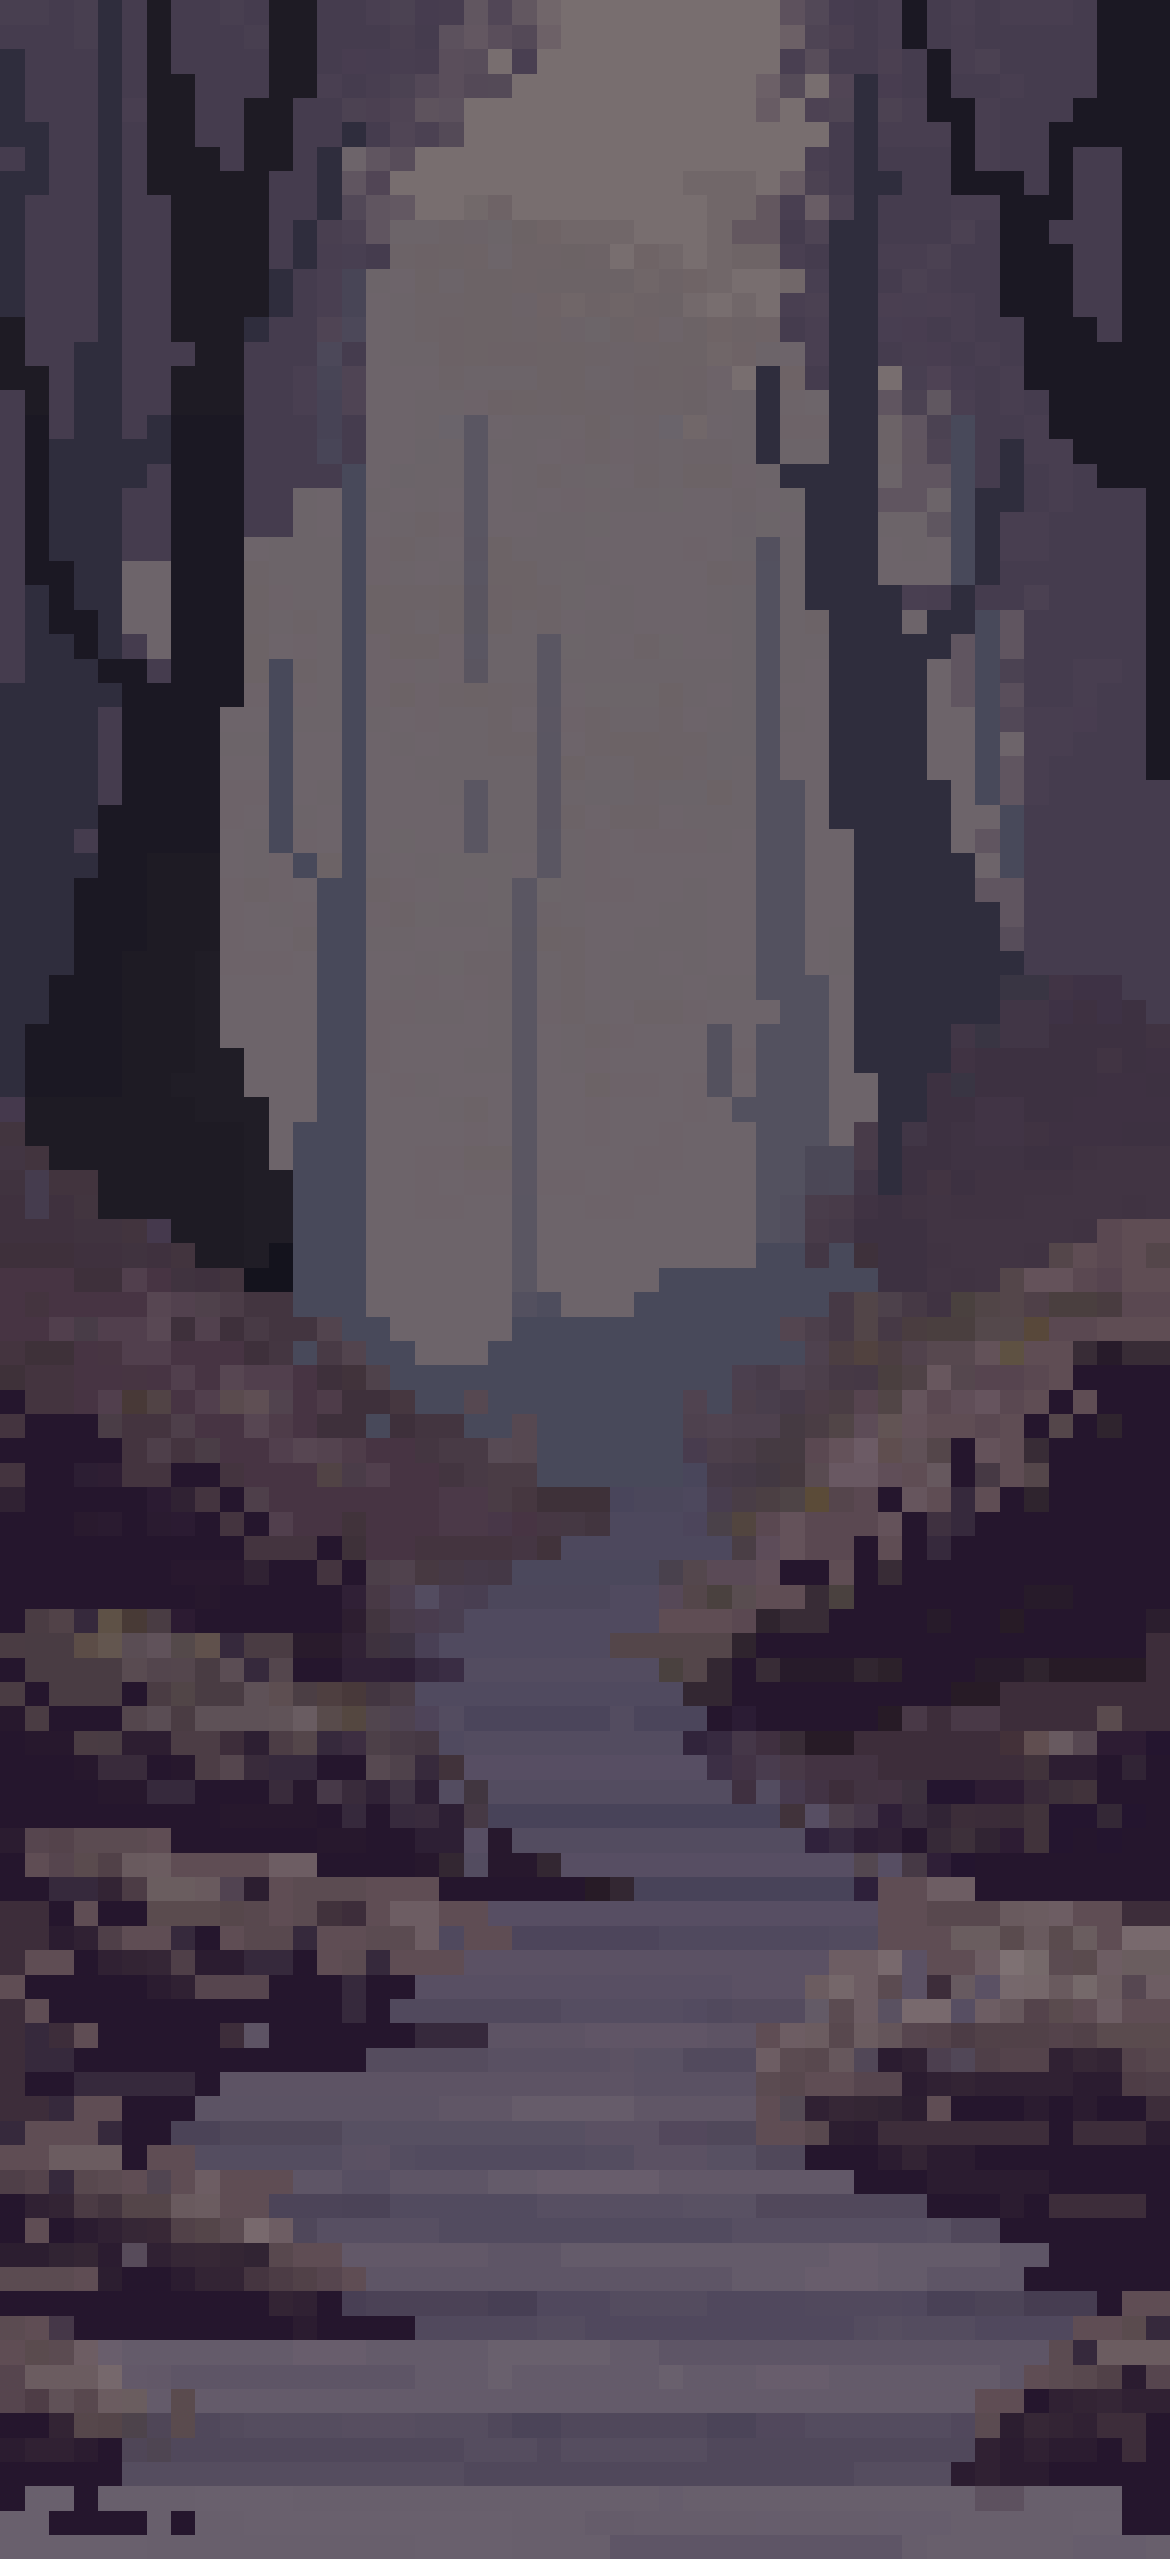
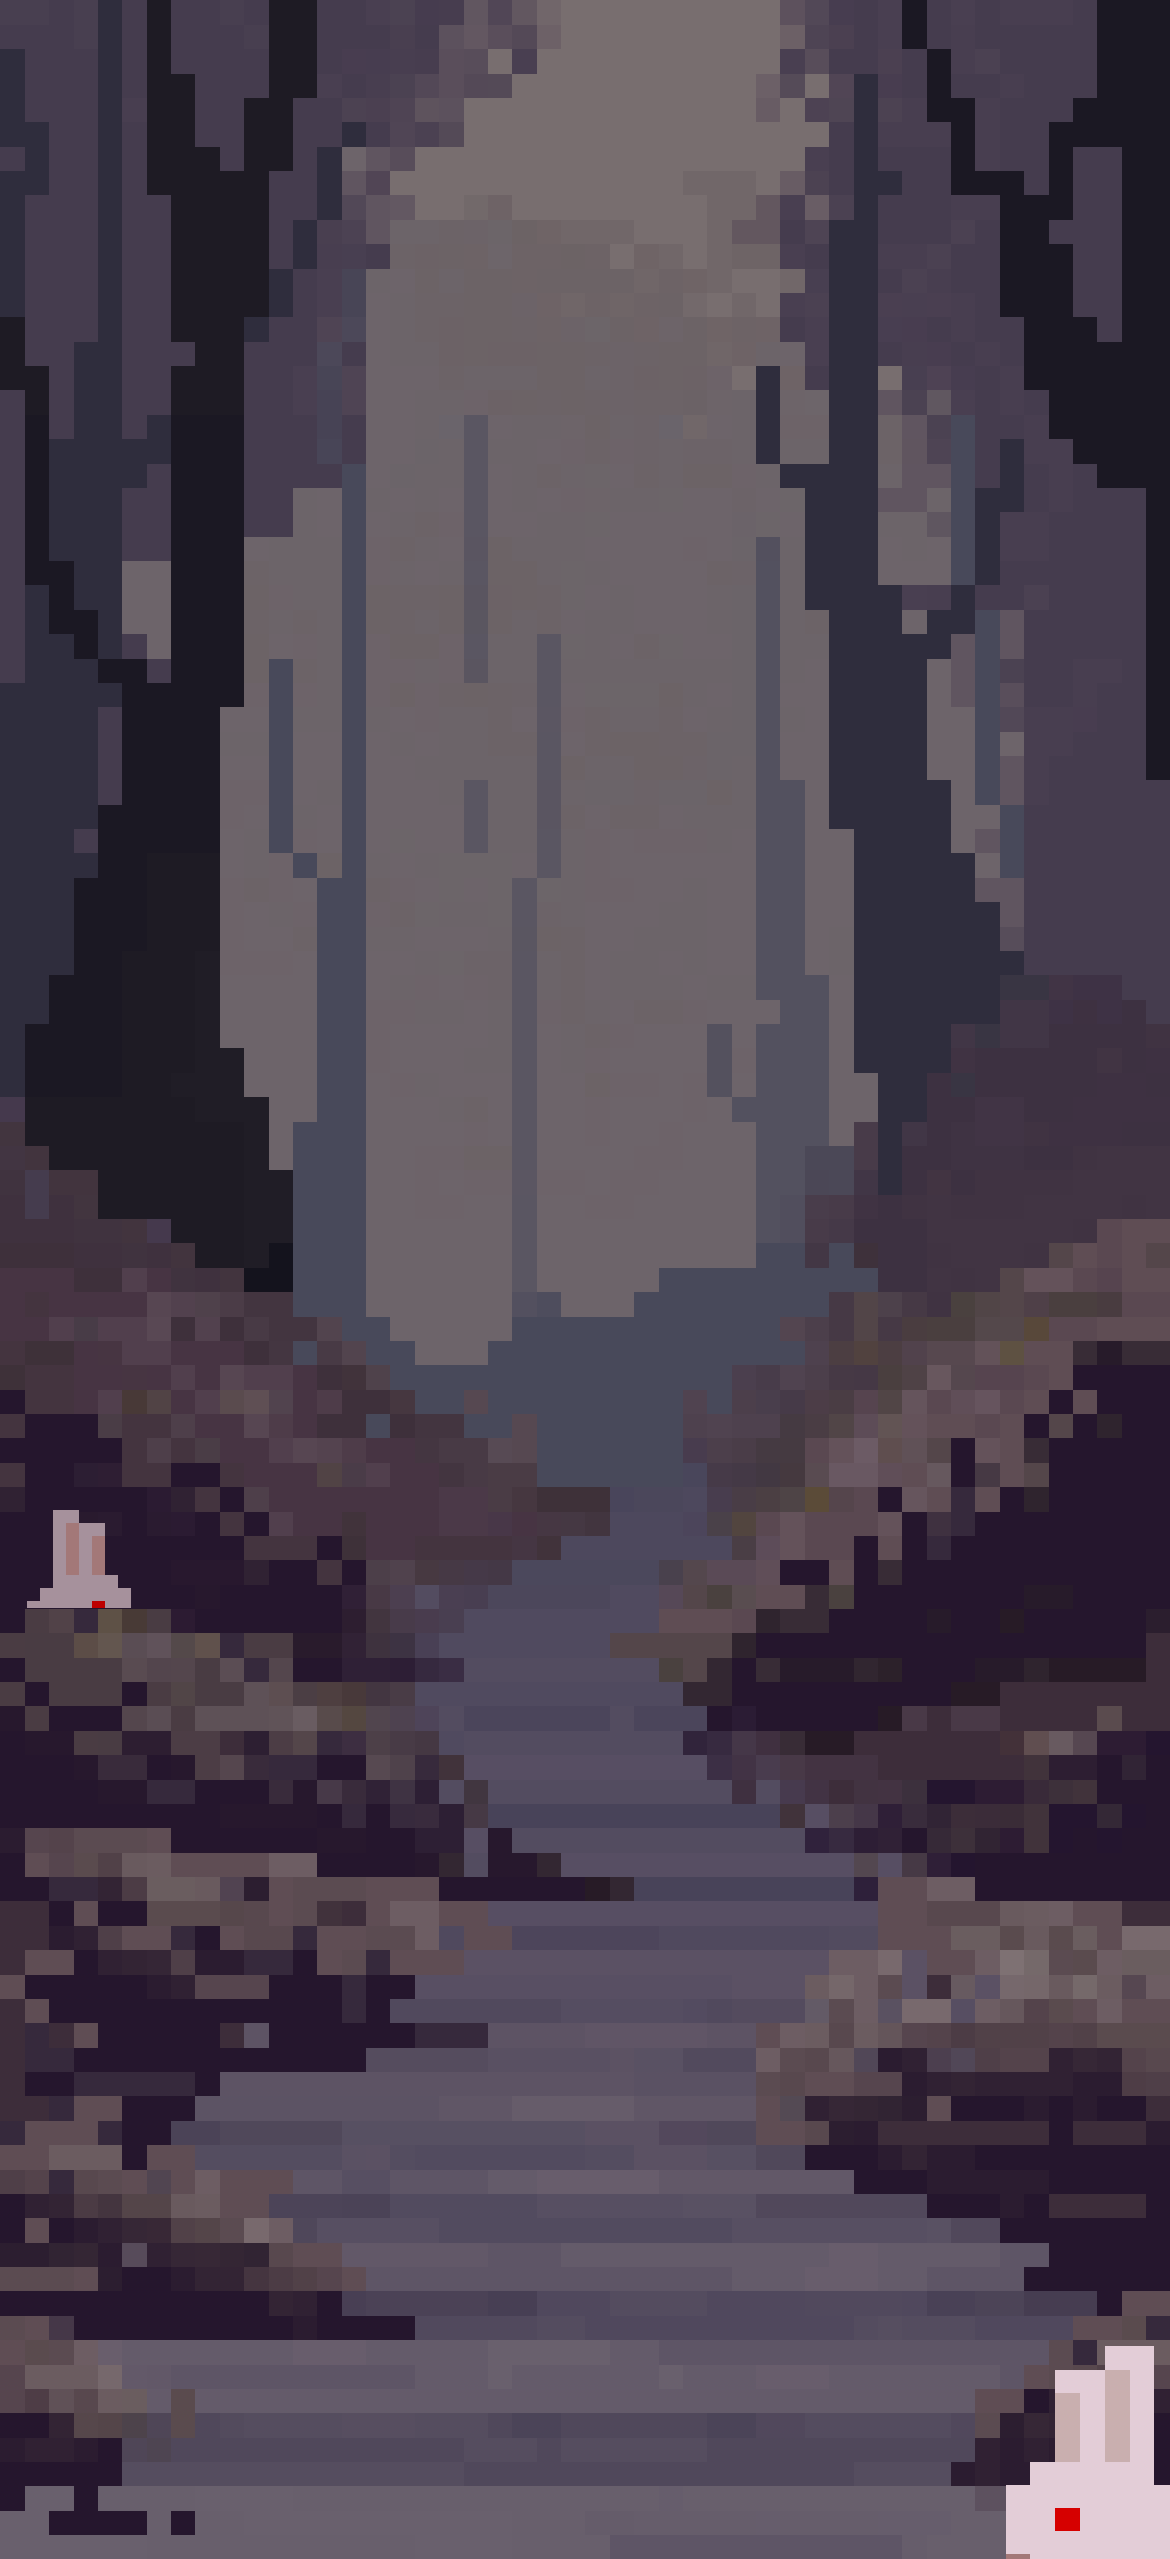
rabbit update
all the rabbits

Changed region(s): [[0.8615, 0.8953, 1.0, 1.0], [0.0308, 0.5866, 0.1231, 0.6483]]

diff --git a/index.html b/index.html
@@ -12,10 +12,11 @@
     <section class="section fade-in">
         <div class="centered-box fade-in">
           <!--question text-->
-          <h1 style="margin:2%; top: 22%; font-size: 2.4rem; font-weight: 700;
+          <h1 style="margin:2%; top: 25%; font-size: 2.4rem; font-weight: 700;
           line-height: 2.2rem;">
             MONSTROUS PERSONA</h1>
-          <img src="images/forest/0.png" alt="Home Image">
+          <img src="images/forest/11.png" alt="Home Image">
+          <div id="foreground sprite" class="foreground-sprite" style="left: 35%; top:47%;"></div>
           <div class="button-container">
             <button onclick = "start()">START</button>
             <button onclick = "shareQuiz()">SHARE</button>
